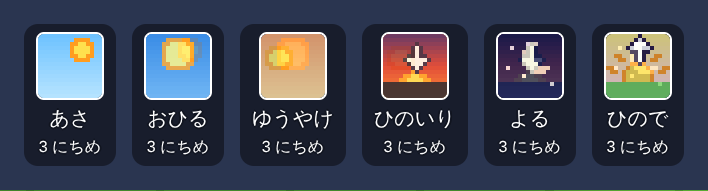
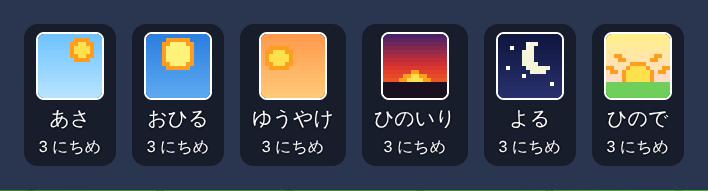
M6-clock: ひので・ひのいり の矢印をやめる

diff --git a/src/ui/clockArt.ts b/src/ui/clockArt.ts
@@ -63,7 +63,7 @@ export function clockScenePixels(scene: ClockScene): Rgba[] {
     }
   }
   if (scene === 'sunrise') {
-    // 放射状の光の線 4 本（上向きの矢印の じゃまにならない 角度）
+    // 放射状の光の線 4 本
     const cx = 8;
     const cy = 10.7;
     for (const deg of [15, 45, 135, 165]) {
@@ -73,28 +73,9 @@ export function clockScenePixels(scene: ClockScene): Rgba[] {
         if (x >= 0 && x < 16 && y >= 0 && y < horizon) px[y * 16 + x] = rgb('#FF9D1F');
       }
     }
-    drawArrow(px, 1, true);
   }
-  if (scene === 'sunset') drawArrow(px, 3, false);
   // 日の出・日没: 地平線より下の太陽は うめた地面でかくれる（半分だけ見える）
   return px;
-}
-
-/** 白い矢印（上向き = のぼる、下向き = しずむ）。まわりに こい 1 ドットのふち。x = 8 の真ん中、5 行 */
-function drawArrow(px: Rgba[], top: number, up: boolean): void {
-  const rows = up ? [[8], [7, 8, 9], [6, 7, 8, 9, 10], [8], [8], [8]] : [[8], [8], [8], [6, 7, 8, 9, 10], [7, 8, 9], [8]];
-  const cells: [number, number][] = [];
-  rows.forEach((xs, i) => xs.forEach((x) => cells.push([x, top + i])));
-  const has = (x: number, y: number) => cells.some(([a, b]) => a === x && b === y);
-  const ink = rgb('#2A1A40');
-  for (const [x, y] of cells) {
-    for (const [dx, dy] of [[-1, 0], [1, 0], [0, -1], [0, 1]]) {
-      const nx = x + dx;
-      const ny = y + dy;
-      if (!has(nx, ny) && nx >= 0 && nx < 16 && ny >= 0 && ny < 16) px[ny * 16 + nx] = ink;
-    }
-  }
-  for (const [x, y] of cells) px[y * 16 + x] = rgb('#FFFFFF');
 }
 
 const cache = new Map<ClockScene, string>();
